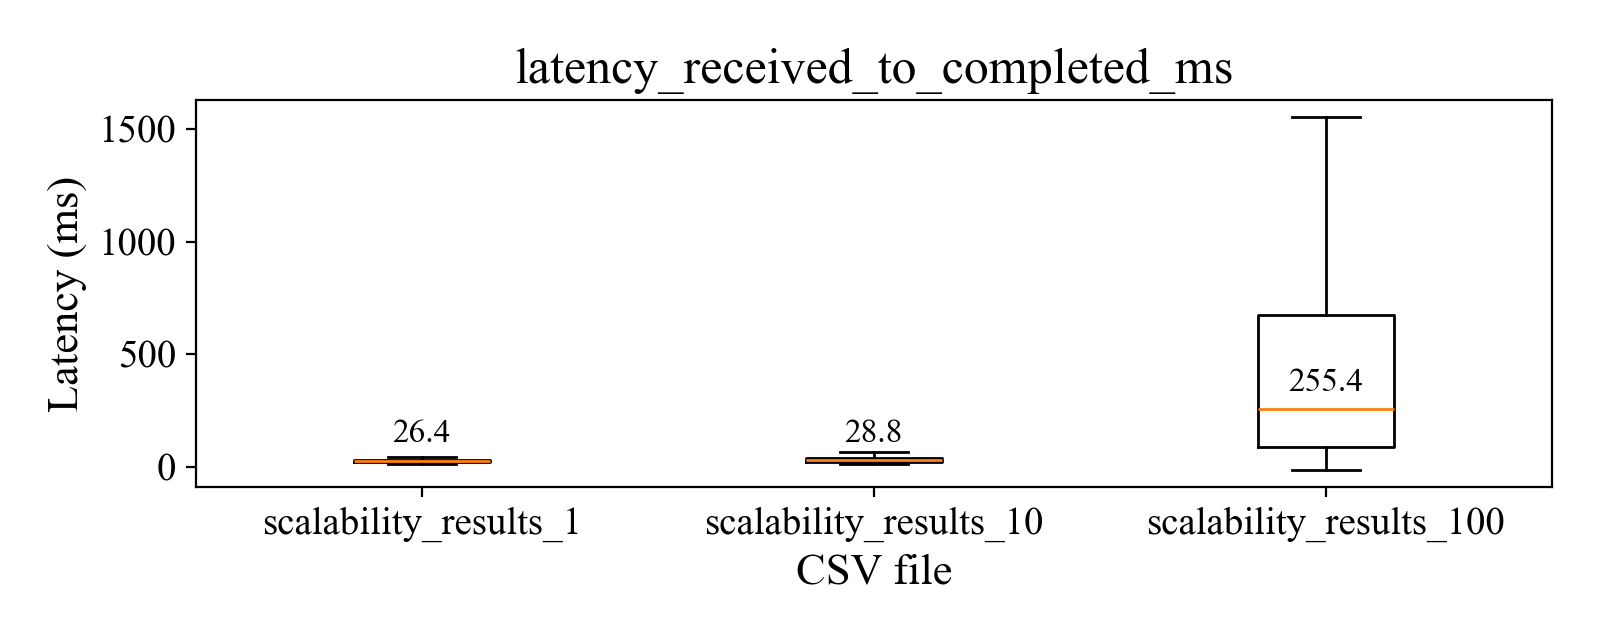
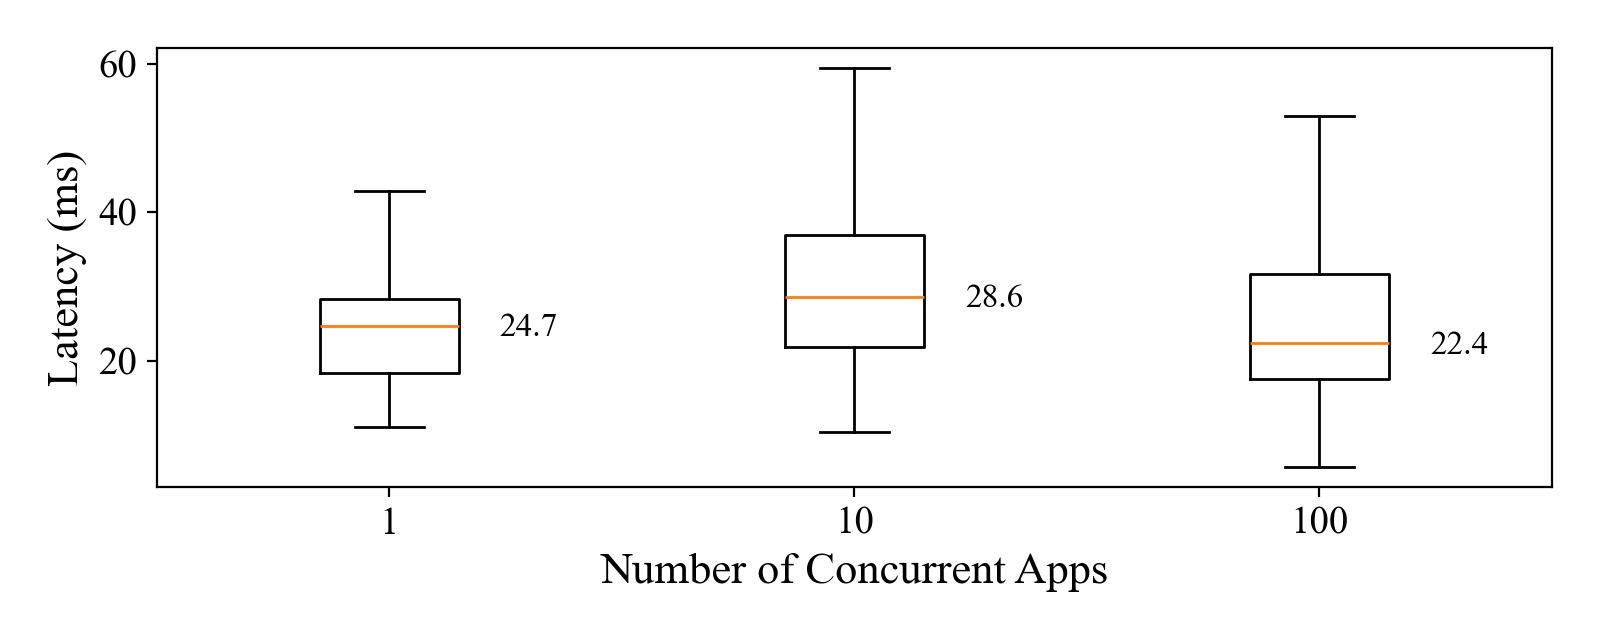
new benchmarking results

diff --git a/scripts/benchmark/scalability/visual.py b/scripts/benchmark/scalability/visual.py
@@ -74,14 +74,14 @@ def boxplot_one_column(
 
     # Annotate medians
     y_min, y_max = ax.get_ylim()
-    y_offset = (y_max - y_min) * 0.03
+    y_offset = (y_max - y_min) * 0.04
     for i, m in enumerate(medians, start=1):
         if np.isfinite(m):
-            ax.text(i, m + y_offset, f"{m:.1f}", ha="center", va="bottom", fontsize=12)
+            ax.text(i+0.3, m-y_offset, f"{m:.1f}", ha="center", va="bottom", fontsize=12)
 
-    ax.set_title(col)
+    # ax.set_title(col)
     ax.set_ylabel("Latency (ms)")
-    ax.set_xlabel("CSV file")
+    ax.set_xlabel("Number of Concurrent Apps")
     plt.tight_layout()
 
     out_path.parent.mkdir(parents=True, exist_ok=True)
@@ -111,7 +111,7 @@ def main() -> None:
 
     csv_paths = args.csvs
     dfs = [load_df(p) for p in csv_paths]
-    labels = [p.stem for p in csv_paths]
+    labels = [str(p.stem).split("_")[-1] for p in csv_paths]
 
     for col in LAT_COLS:
         out = args.outdir / f"boxplot_{col}.png"
